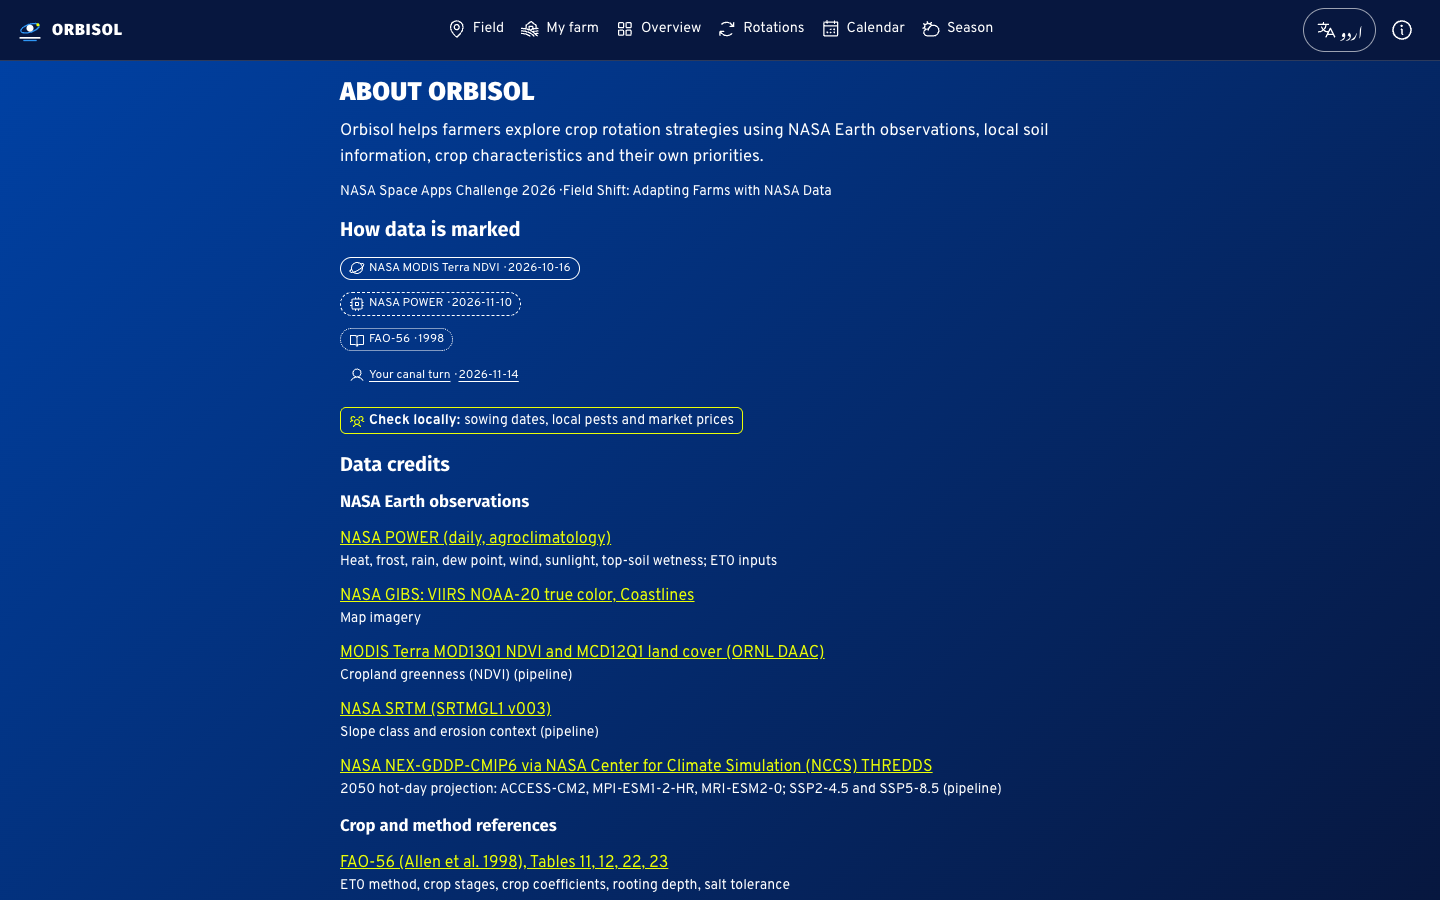
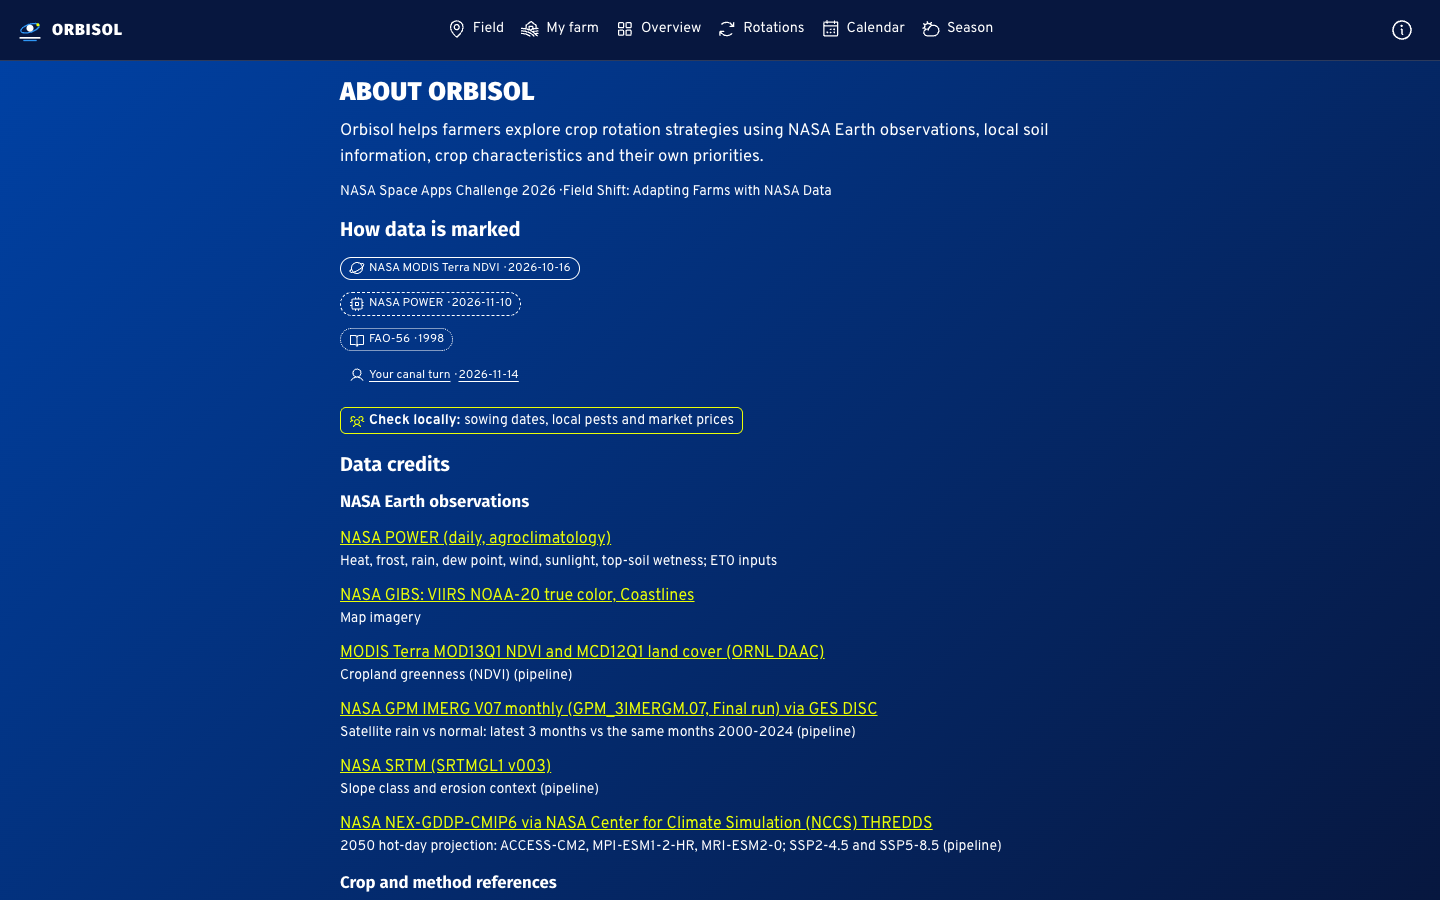
docs: final screenshots (7 screens at 360x800 2x and 1440x900, full-length 2x for Overview, Rotations, Calendar, Season, greenness Jan/Apr) and README (live link, screenshot table, final data credits incl. IMERG monthly, NEX-GDDP-CMIP6, Khan et al. 2022, AI-use note)
Demo farm near Tando Jam, salty = no, canal turn 7 days, priorities Save water then Fodder. Captured in headless
Chrome, no horizontal overflow. Urdu draft shots removed (Urdu is switched off).

Changed region(s): [[0.2188, 0.7778, 0.6875, 0.9956], [0.9062, 0.0311, 0.9375, 0.0622]]

diff --git a/README.md b/README.md
@@ -6,6 +6,9 @@ own priorities.
 
 > Orbisol **supports, not replaces,** farmer judgment and local expertise.
 
+**Live app: [orbisol.vercel.app](https://orbisol.vercel.app)** (works offline after the first visit; tap
+"Demo farm near Tando Jam, Hyderabad" on the Field screen to see every layer).
+
 - **Event:** NASA Space Apps Challenge 2026, Hyderabad (Pakistan) virtual local event
 - **Challenge:** Field Shift: Adapting Farms with NASA Data
 - **Team:** Orbisol, solo: Muhammad Awais
@@ -24,11 +27,28 @@ own priorities.
 
 ## Screenshots
 
-| Phone (360 x 800) | Desktop (1440 x 900) |
-|---|---|
-| <img src="docs/screenshots/03-overview-360x800.png" width="240" alt="Overview on a phone: four insight cards"> | <img src="docs/screenshots/03-overview-1440x900.png" width="560" alt="Overview on desktop"> |
+Final design, demo farm near Tando Jam, Hyderabad: cotton -> wheat, salty soil = no, canal turn every 7 days,
+priorities 1. Save water, 2. Fodder for animals. Phones at 360 x 800 (2x), desktop at 1440 x 900.
 
-All screens, in story order: [docs/screenshots/](docs/screenshots/).
+| Screen | Phone (360 x 800) | Desktop (1440 x 900) |
+|---|---|---|
+| 1. Field | <img src="docs/screenshots/01-field-360x800.png" width="200" alt="Field on a phone: pin your field, orbit animation beside the title, demo farm buttons, satellite map"> | <img src="docs/screenshots/01-field-1440x900.png" width="480" alt="Field on desktop: map on the left, pin controls on the right"> |
+| 2. My farm | <img src="docs/screenshots/02-farm-360x800.png" width="200" alt="My farm on a phone: Sindh rotation presets and crop dates"> | <img src="docs/screenshots/02-farm-1440x900.png" width="480" alt="My farm on desktop"> |
+| 3. Overview | <img src="docs/screenshots/03-overview-360x800.png" width="200" alt="Overview on a phone: 44 hot days with bare soil; best option uses 12% less water"> | <img src="docs/screenshots/03-overview-1440x900.png" width="480" alt="Overview on desktop: insight cards in two columns"> |
+| 4. Rotations | <img src="docs/screenshots/04-rotations-360x800.png" width="200" alt="Rotations on a phone: ranked for Save water then Fodder; current rotation card"> | <img src="docs/screenshots/04-rotations-1440x900.png" width="480" alt="Rotations on desktop: current rotation and two options side by side"> |
+| 5. Calendar | <img src="docs/screenshots/05-calendar-360x800.png" width="200" alt="Calendar on a phone: bare-field and vulnerable months"> | <img src="docs/screenshots/05-calendar-1440x900.png" width="480" alt="Calendar on desktop"> |
+| 6. Season | <img src="docs/screenshots/06-season-360x800.png" width="200" alt="Season on a phone: jump chips for Heat, Water, Soil and greenness, Frost"> | <img src="docs/screenshots/06-season-1440x900.png" width="480" alt="Season on desktop: Heat group with hot days and the long-term trend"> |
+| 7. About | <img src="docs/screenshots/07-about-360x800.png" width="200" alt="About on a phone: data credits"> | <img src="docs/screenshots/07-about-1440x900.png" width="480" alt="About on desktop"> |
+
+Full-length pages (2x): Overview [phone](docs/screenshots/03-overview-360x800-full@2x.png) /
+[desktop](docs/screenshots/03-overview-1440x900-full@2x.png), Rotations
+[phone](docs/screenshots/04-rotations-360x800-full@2x.png) / [desktop](docs/screenshots/04-rotations-1440x900-full@2x.png),
+Calendar [phone](docs/screenshots/05-calendar-360x800-full@2x.png) /
+[desktop](docs/screenshots/05-calendar-1440x900-full@2x.png), Season
+[phone](docs/screenshots/06-season-360x800-full@2x.png) / [desktop](docs/screenshots/06-season-1440x900-full@2x.png).
+
+Greenness map (NASA MODIS NDVI via GIBS), January vs April 2025:
+[January](docs/screenshots/09-greenness-january-1440x900.png) / [April](docs/screenshots/09-greenness-april-1440x900.png).
 
 ## Repo layout
 
@@ -52,16 +72,33 @@ npm run build      # production build -> apps/web/dist
 
 ## Data credits
 
-NASA POWER, MODIS Terra NDVI and land cover (ORNL DAAC), GPM IMERG V07 monthly satellite rain (GES DISC), SRTM,
-NEX-GDDP-CMIP6 (NCCS THREDDS), NASA GIBS VIIRS NOAA-20 imagery, and FAO GAEZ / FAO-56 for crop references. Planned,
-not in this version: GPM IMERG daily rain, SMAP soil moisture, VIIRS NOAA-20 NDVI. Full list: [docs/data-sources.md](docs/data-sources.md).
-Data is credited in text only; Orbisol uses no NASA or Space Apps logos.
+Used in this version (each number on screen names its source and dates):
+
+- **NASA POWER** daily point API (NASA LaRC; MERRA-2 / GEOS-IT): heat, frost, rain, top-soil wetness and FAO-56 ET0, live
+  for any pin.
+- **GPM IMERG V07 monthly** (GPM_3IMERGM.07, NASA GES DISC): satellite rain vs normal (2000-2024).
+- **NEX-GDDP-CMIP6** (NASA, via NCCS THREDDS): 2050 heat outlook, 3 models x SSP2-4.5 / SSP5-8.5, 2041-2060 vs
+  1995-2014. A climate model projection, not a forecast.
+- **MODIS Terra** MOD13Q1 NDVI and MCD12Q1 land cover (NASA / ORNL DAAC TESViS); MODIS NDVI 16-day map tiles via
+  **NASA GIBS**.
+- **SRTM** SRTMGL1 v003 (NASA / USGS, LP DAAC): slope and erosion context.
+- **NASA GIBS** VIIRS NOAA-20 true-colour imagery and Coastlines_15m (© OpenStreetMap contributors).
+- **FAO-56** (Allen et al. 1998) and **FAO GAEZ v4** crop references; **Sindh Agriculture Department** sowing calendar;
+  **Feedipedia** (INRAE, CIRAD, AFZ, FAO) for legumes and fodder.
+- **GeoNames** place names, [CC BY 4.0](https://creativecommons.org/licenses/by/4.0/).
+- Published comparison for the observed heat trend: **Khan et al. 2022**, *PLOS ONE* 17(7): e0271626,
+  [doi:10.1371/journal.pone.0271626](https://doi.org/10.1371/journal.pone.0271626) (PMD station data 1962-2019).
+
+The Hyderabad case-study layers (MODIS NDVI, SRTM slope, IMERG monthly rain, 2050 heat) are precomputed for the demo
+farm; other pins run on live NASA POWER. Planned, not in this version: GPM IMERG daily rain, SMAP soil moisture,
+VIIRS NOAA-20 NDVI. Full list and methods: [docs/data-sources.md](docs/data-sources.md),
+[docs/limitations.md](docs/limitations.md). Data is credited in text only; Orbisol uses no NASA or Space Apps logos.
 
 ## AI usage
 
-This project was built with AI assistance (Claude by Anthropic) for code and documentation drafts.
-The idea, product decisions and final review are the author's. Details in
-[docs/ai-usage.md](docs/ai-usage.md); AI-assisted source files carry a header comment saying so.
+This project was built with AI assistance (Claude by Anthropic) for code, documentation drafts and screenshots.
+The idea, product decisions, data choices and final review are the author's. Every AI-assisted source file carries a
+header comment saying so, and [docs/ai-usage.md](docs/ai-usage.md) logs what was asked and what was decided.
 
 ## License
 

diff --git a/docs/build-log.md b/docs/build-log.md
@@ -238,3 +238,17 @@
   nothing breaks.
 - Bug found and fixed in testing: MapLibre RasterTileSource.setTiles left earlier months' tiles on screen after the
   slider moved; the greenness source is now removed and re-added per month (April via slider = April loaded directly).
+
+## 2026-11-15 PKT - Final pass (presentation only, no new features) - commits 8e7f924, b25f411 and the screenshot commit
+
+- Science layer open by default on every screen size (toggle kept). Season cards grouped: Heat, Water, Soil &
+  greenness, Frost, each with an icon heading, a colour accent (always with icon and text) and jump chips. Field title
+  has a CSS/SVG orbit animation (~1.3 KB, static under prefers-reduced-motion).
+- Urdu switched off for now (header button removed, English always); draft `ur.ts` kept for a later native review.
+- Screenshots recaptured with the final design (docs/screenshots/): top of screen for all 7 screens at 360x800 (2x)
+  and 1440x900, full-length 2x for Overview, Rotations, Calendar and Season, and the January / April greenness map.
+  Demo farm near Tando Jam, salty = no, canal turn 7 days, priorities Save water then Fodder. Headless Chrome over the
+  DevTools protocol (no new dependencies); no horizontal overflow on any screen. The Season phone page is 22,410 px at
+  2x, past Chrome's single-capture limit, so it was captured in parts and joined. Urdu draft shots removed.
+- README: live link (orbisol.vercel.app), screenshots table, final data credits (IMERG monthly, NEX-GDDP-CMIP6,
+  Khan et al. 2022), AI-use note. data-sources.md gains the NEX-GDDP-CMIP6 row.

diff --git a/docs/objectives.md b/docs/objectives.md
@@ -76,7 +76,7 @@ Paths are under `apps/web/src/views/`.
 | Interactive maps and trends over time | Field map (GIBS); trend charts (Season) | Partial: no map layers of trends |
 | Field-level vulnerability zones (erosion, water stress, frost) | Not mapped; point values only | Gap |
 | Timelines, overlays, scenario sliders | Crop-year timeline with plan switch; NDVI curve under the crop bars | Partial: no rainfall or temperature sliders |
-| Easy for farmers with little technical experience | Plain sentence first on every screen and card, "Show the science" layer, farmer units (canal turns), icons, Listen (speech), Urdu draft, 360 px phones | Covered (Urdu strings are a draft needing native review) |
+| Easy for farmers with little technical experience | Plain sentence first on every screen and card, "Show the science" layer, farmer units (canal turns), icons, Listen (speech), 360 px phones | Covered (Urdu draft strings kept in the repo but switched off until a native review) |
 | Farmer inputs: priorities and constraints (water availability, equipment, market) | My farm: priorities, canal turn, soil, salinity, rotation presets | Partial: equipment and market preferences not captured (new-crop risk asks to check machinery) |
 | Reminders that the tool supports, not replaces, expertise | `JudgmentNotice`, Overview line, About | Covered |
 

diff --git a/docs/data-sources.md b/docs/data-sources.md
@@ -14,6 +14,7 @@ All data credited in text only. No NASA or Space Apps logos are used anywhere.
 | MODIS MCD12Q1 LC_Type1 (500 m, yearly) | NASA / ORNL DAAC TESViS | Cropland mask for NDVI (classes 12, 14) | Satellite | Pipeline |
 | VIIRS NOAA-20 VJ113A1 | NASA LP DAAC / AppEEARS | Future replacement for MODIS Terra NDVI (Terra science data expected to end ~Feb 2027); needs Earthdata login | Satellite | Not yet used |
 | SMAP soil moisture | NASA NSIDC | Future work (not used in this build; POWER GWETTOP model value is used instead) | Satellite | Not yet used |
+| NEX-GDDP-CMIP6 daily tasmax (0.25 deg, bias-corrected, downscaled) | NASA, NCCS THREDDS NetCDF Subset Service | 2050 heat outlook: hot days > 42.5 °C, 3 models x SSP2-4.5 / SSP5-8.5, 2041-2060 vs 1995-2014 | Climate model projection | `pipeline/scripts/cmip6_heat.py` -> `data/hyderabad/heat2050.json` |
 | SRTM SRTMGL1 v003 (1 arc-second) | NASA / USGS, LP DAAC | Slope -> FAO slope class, erosion context | Satellite (radar) | `pipeline/scripts/srtm.py` -> `data/hyderabad/slope.json` |
 | GIBS VIIRS_NOAA20_CorrectedReflectance_TrueColor | NASA GIBS | Map imagery | Satellite | Live tiles |
 | GIBS MODIS_Terra_L3_NDVI_16Day | NASA GIBS (WMTS, EPSG:3857, GoogleMapsCompatible_Level9) | Field map greenness layer with a month slider, any pin | Satellite | Live tiles |
